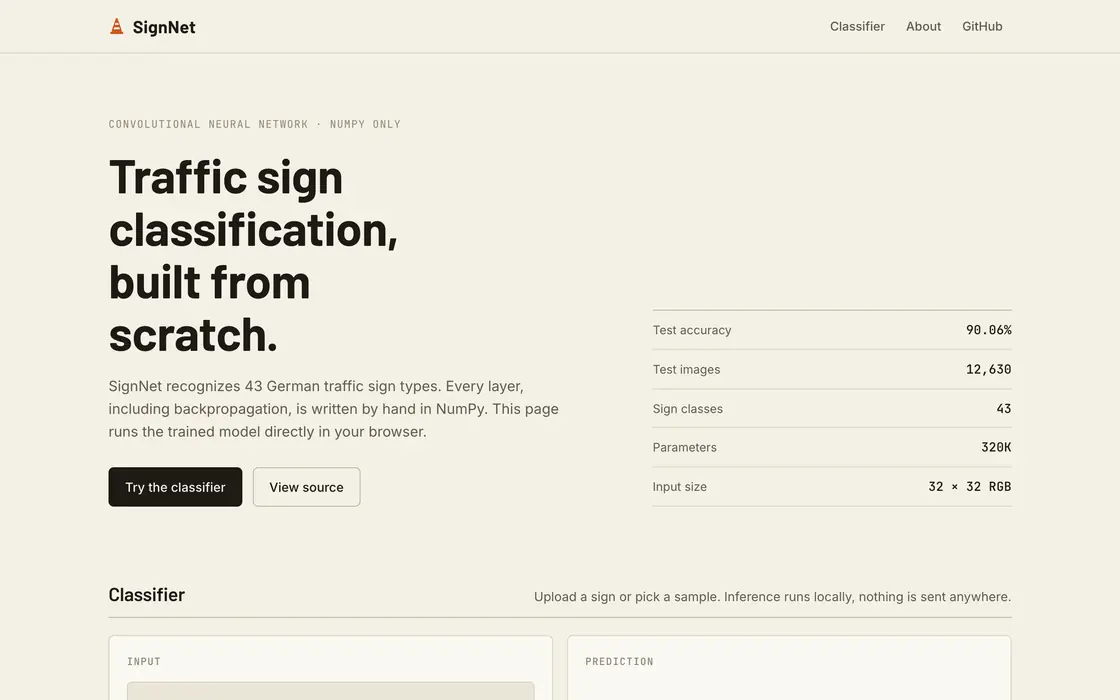
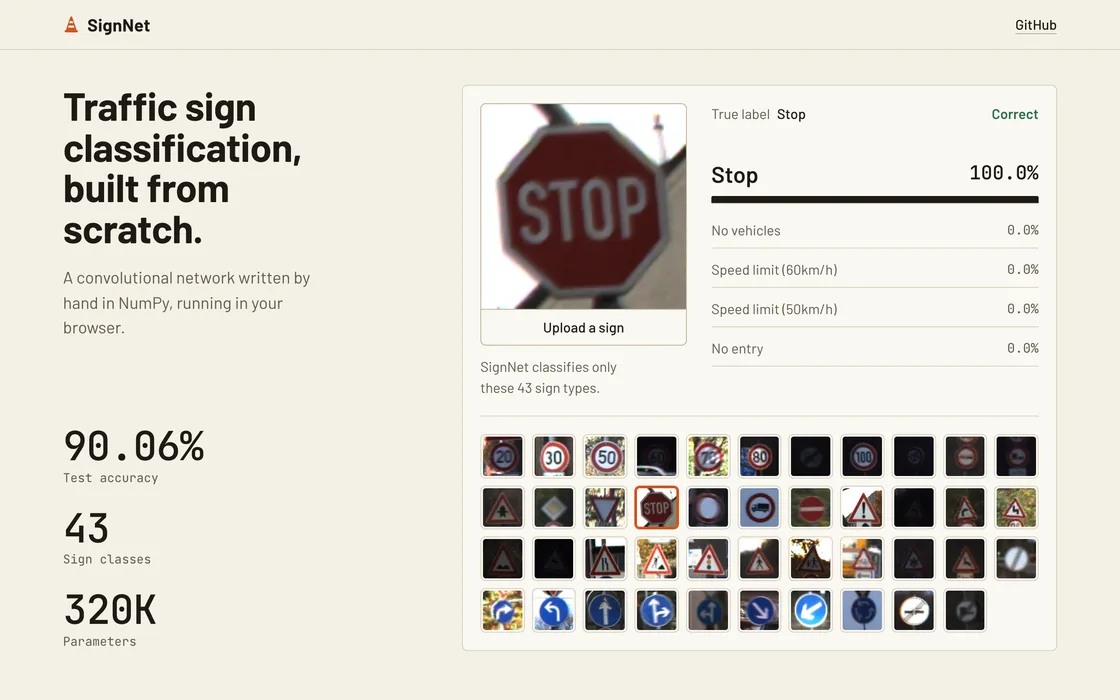
Retake the signnet card

diff --git a/src/data/projects.js b/src/data/projects.js
@@ -79,7 +79,7 @@ const projects = [
         ],
         image: 'signnet',
         icon: '/imgs/icons/signnet.svg',
-        alt: 'signnet’s site, “Traffic sign classification, built from scratch,” with its test accuracy.',
+        alt: 'signnet’s site, “Traffic sign classification, built from scratch,” beside the model classifying a stop sign.',
     },
     {
         id: 'ensemble',
